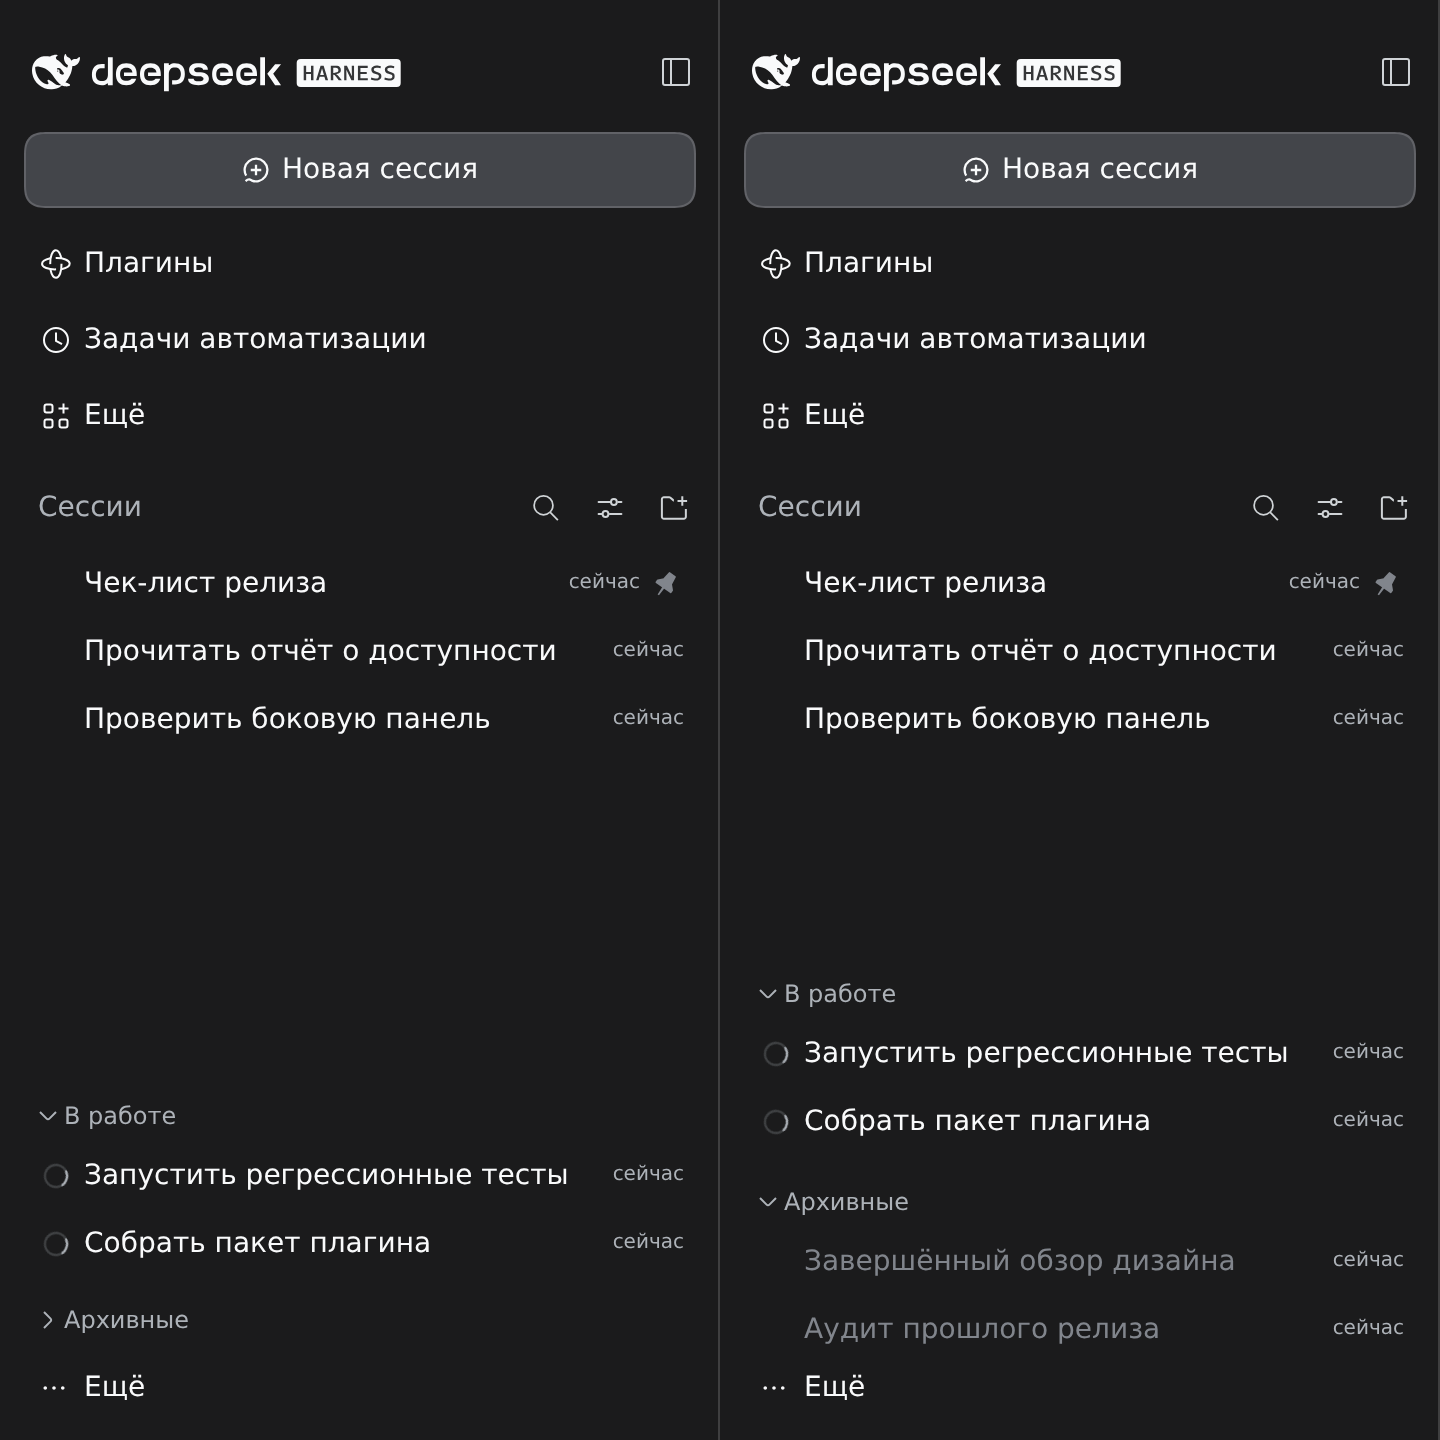
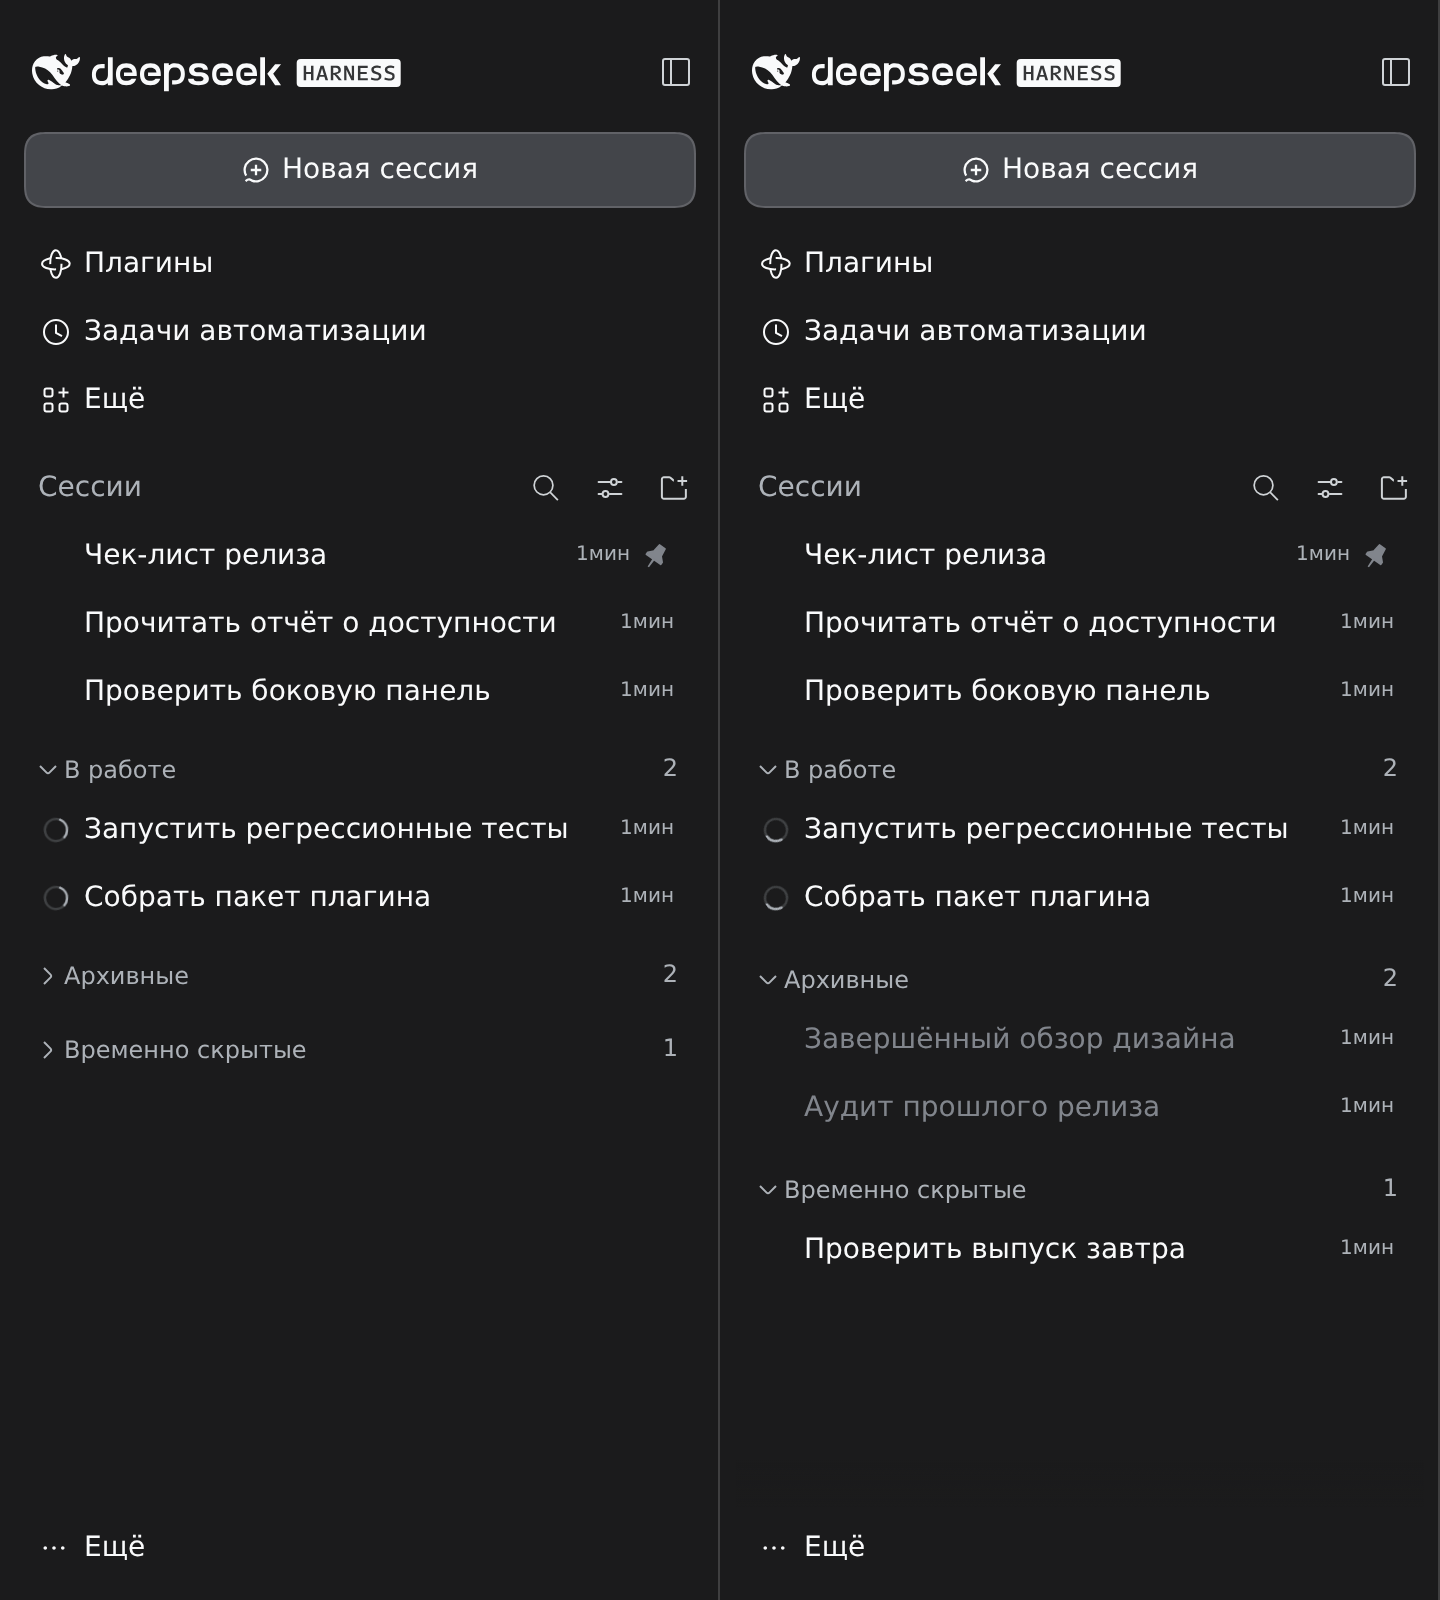
docs(sidebar-inbox): 미리보기에 잠시 숨김과 세션 수를 반영한다
Amp-Thread-ID: https://ampcode.com/threads/T-01a1e290-8a1c-71fe-abaf-7f7ffad8fb00

diff --git a/packages/ui-sidebar-inbox/README.ru.md b/packages/ui-sidebar-inbox/README.ru.md
@@ -8,13 +8,13 @@
 
 ## Предпросмотр
 
-**Светлая тема**: слева «Архивные» свёрнуты, справа развёрнуты.
+**Светлая тема**: слева «Архивные» и «Временно скрытые» свёрнуты, справа развёрнуты. Заголовки показывают количество сеансов.
 
-<img src="./assets/sidebar-preview-ru-light.webp" alt="Sidebar Inbox в светлой теме с русским интерфейсом: закреплённые сеансы и сеансы из входящих вверху, список «В работе» внизу; сравнение свёрнутых «Архивных» слева и развёрнутых справа" width="720" />
+<img src="./assets/sidebar-preview-ru-light.webp" alt="Sidebar Inbox в светлой теме: закреплённые и входящие сеансы, «В работе», «Архивные» и «Временно скрытые» с количеством; два последних раздела свёрнуты слева и развёрнуты справа" width="720" />
 
-**Тёмная тема**: те же примеры сеансов; сравнение свёрнутых и развёрнутых «Архивных».
+**Тёмная тема**: те же примеры сеансов; сравнение свёрнутых и развёрнутых «Архивных» и «Временно скрытых».
 
-<img src="./assets/sidebar-preview-ru-dark.webp" alt="Sidebar Inbox в тёмной теме с русским интерфейсом: закреплённые сеансы и сеансы из входящих вверху, список «В работе» внизу; сравнение свёрнутых «Архивных» слева и развёрнутых справа" width="720" />
+<img src="./assets/sidebar-preview-ru-dark.webp" alt="Sidebar Inbox в тёмной теме: закреплённые и входящие сеансы, «В работе», «Архивные» и «Временно скрытые» с количеством; два последних раздела свёрнуты слева и развёрнуты справа" width="720" />
 
 ## Использование
 

diff --git a/packages/ui-sidebar-inbox/README.es.md b/packages/ui-sidebar-inbox/README.es.md
@@ -8,13 +8,13 @@ Organiza la lista de sesiones de la barra lateral de DSH **por estado**, como T3
 
 ## Vista previa
 
-**Claro**: a la izquierda, Archivadas plegado; a la derecha, desplegado.
+**Claro**: Archivadas y Ocultas temporalmente están plegadas a la izquierda y desplegadas a la derecha. Los encabezados muestran el número de sesiones.
 
-<img src="./assets/sidebar-preview-es-light.webp" alt="Sidebar Inbox con el tema claro y la interfaz en español: sesiones fijadas y de la bandeja de entrada arriba y la lista En curso abajo, comparando Archivadas plegado a la izquierda y desplegado a la derecha" width="720" />
+<img src="./assets/sidebar-preview-es-light.webp" alt="Sidebar Inbox con tema claro: sesiones fijadas y de la bandeja de entrada, En curso, Archivadas y Ocultas temporalmente con recuentos; las dos últimas plegadas a la izquierda y desplegadas a la derecha" width="720" />
 
-**Oscuro**: las mismas sesiones de ejemplo, comparando Archivadas plegado y desplegado.
+**Oscuro**: las mismas sesiones de ejemplo, comparando Archivadas y Ocultas temporalmente plegadas y desplegadas.
 
-<img src="./assets/sidebar-preview-es-dark.webp" alt="Sidebar Inbox con el tema oscuro y la interfaz en español: sesiones fijadas y de la bandeja de entrada arriba y la lista En curso abajo, comparando Archivadas plegado a la izquierda y desplegado a la derecha" width="720" />
+<img src="./assets/sidebar-preview-es-dark.webp" alt="Sidebar Inbox con tema oscuro: sesiones fijadas y de la bandeja de entrada, En curso, Archivadas y Ocultas temporalmente con recuentos; las dos últimas plegadas a la izquierda y desplegadas a la derecha" width="720" />
 
 ## Uso
 

diff --git a/packages/ui-sidebar-inbox/README.fr.md b/packages/ui-sidebar-inbox/README.fr.md
@@ -8,13 +8,13 @@ Ce plugin organise la liste des sessions de la barre latérale de DSH **par éta
 
 ## Aperçu
 
-**Clair** : à gauche, Archivées replié ; à droite, déplié.
+**Clair** : Archivées et Masquées temporairement sont repliées à gauche et dépliées à droite. Les titres indiquent le nombre de sessions.
 
-<img src="./assets/sidebar-preview-fr-light.webp" alt="Sidebar Inbox avec le thème clair et l’interface en français : sessions épinglées et de la boîte de réception en haut, liste En cours en bas, comparaison d’Archivées replié à gauche et déplié à droite" width="720" />
+<img src="./assets/sidebar-preview-fr-light.webp" alt="Sidebar Inbox en thème clair : sessions épinglées et reçues, En cours, Archivées et Masquées temporairement avec compteurs ; les deux dernières repliées à gauche et dépliées à droite" width="720" />
 
-**Sombre** : les mêmes sessions d’exemple, comparant Archivées replié et déplié.
+**Sombre** : les mêmes sessions d’exemple, comparant Archivées et Masquées temporairement repliées et dépliées.
 
-<img src="./assets/sidebar-preview-fr-dark.webp" alt="Sidebar Inbox avec le thème sombre et l’interface en français : sessions épinglées et de la boîte de réception en haut, liste En cours en bas, comparaison d’Archivées replié à gauche et déplié à droite" width="720" />
+<img src="./assets/sidebar-preview-fr-dark.webp" alt="Sidebar Inbox en thème sombre : sessions épinglées et reçues, En cours, Archivées et Masquées temporairement avec compteurs ; les deux dernières repliées à gauche et dépliées à droite" width="720" />
 
 ## Utilisation
 

diff --git a/packages/ui-sidebar-inbox/README.pt.md b/packages/ui-sidebar-inbox/README.pt.md
@@ -8,13 +8,13 @@ Organiza a lista de sessões da barra lateral do DSH **por estado**, como o T3 C
 
 ## Pré-visualização
 
-**Claro**: à esquerda, Arquivadas recolhido; à direita, expandido.
+**Claro**: Arquivadas e Ocultadas temporariamente estão recolhidas à esquerda e expandidas à direita. Os títulos mostram a contagem de sessões.
 
-<img src="./assets/sidebar-preview-pt-light.webp" alt="Sidebar Inbox no tema claro com a interface em português: sessões fixadas e da caixa de entrada no topo e a lista Em andamento embaixo, comparando Arquivadas recolhido à esquerda e expandido à direita" width="720" />
+<img src="./assets/sidebar-preview-pt-light.webp" alt="Sidebar Inbox no tema claro: sessões fixadas e da caixa de entrada, Em andamento, Arquivadas e Ocultadas temporariamente com contagens; as duas últimas recolhidas à esquerda e expandidas à direita" width="720" />
 
-**Escuro**: as mesmas sessões de exemplo, comparando Arquivadas recolhido e expandido.
+**Escuro**: as mesmas sessões de exemplo, comparando Arquivadas e Ocultadas temporariamente recolhidas e expandidas.
 
-<img src="./assets/sidebar-preview-pt-dark.webp" alt="Sidebar Inbox no tema escuro com a interface em português: sessões fixadas e da caixa de entrada no topo e a lista Em andamento embaixo, comparando Arquivadas recolhido à esquerda e expandido à direita" width="720" />
+<img src="./assets/sidebar-preview-pt-dark.webp" alt="Sidebar Inbox no tema escuro: sessões fixadas e da caixa de entrada, Em andamento, Arquivadas e Ocultadas temporariamente com contagens; as duas últimas recolhidas à esquerda e expandidas à direita" width="720" />
 
 ## Uso
 

diff --git a/packages/ui-sidebar-inbox/README.de.md b/packages/ui-sidebar-inbox/README.de.md
@@ -8,13 +8,13 @@ Das Plugin ordnet die Sitzungsliste in der DSH-Seitenleiste **nach Status**, äh
 
 ## Vorschau
 
-**Hell**: Links ist Archiviert eingeklappt, rechts ausgeklappt.
+**Hell**: Links sind Archiviert und Vorübergehend ausgeblendet eingeklappt, rechts ausgeklappt. Die Überschriften zeigen die Sitzungsanzahl.
 
-<img src="./assets/sidebar-preview-de-light.webp" alt="Sidebar Inbox im hellen Design mit deutscher Oberfläche: angeheftete und Posteingangs-Sitzungen oben, die Liste In Arbeit unten, Vergleich von Archiviert eingeklappt links und ausgeklappt rechts" width="720" />
+<img src="./assets/sidebar-preview-de-light.webp" alt="Sidebar Inbox im hellen Design: angeheftete und Posteingangs-Sitzungen sowie In Arbeit, Archiviert und Vorübergehend ausgeblendet mit Anzahl; die letzten beiden links eingeklappt, rechts ausgeklappt" width="720" />
 
-**Dunkel**: Dieselben Beispielsitzungen im Vergleich von Archiviert eingeklappt und ausgeklappt.
+**Dunkel**: Dieselben Beispielsitzungen mit Archiviert und Vorübergehend ausgeblendet im eingeklappten und ausgeklappten Zustand.
 
-<img src="./assets/sidebar-preview-de-dark.webp" alt="Sidebar Inbox im dunklen Design mit deutscher Oberfläche: angeheftete und Posteingangs-Sitzungen oben, die Liste In Arbeit unten, Vergleich von Archiviert eingeklappt links und ausgeklappt rechts" width="720" />
+<img src="./assets/sidebar-preview-de-dark.webp" alt="Sidebar Inbox im dunklen Design: angeheftete und Posteingangs-Sitzungen sowie In Arbeit, Archiviert und Vorübergehend ausgeblendet mit Anzahl; die letzten beiden links eingeklappt, rechts ausgeklappt" width="720" />
 
 ## Verwendung
 

diff --git a/packages/ui-sidebar-inbox/README.en.md b/packages/ui-sidebar-inbox/README.en.md
@@ -8,13 +8,13 @@ Sidebar Inbox organizes the DSH sidebar session list **by state**, like T3 Code 
 
 ## Preview
 
-**Light**: Archived is collapsed on the left and expanded on the right.
+**Light**: Archived and Snoozed are collapsed on the left and expanded on the right. Section headings show session counts.
 
-<img src="./assets/sidebar-preview-en-light.webp" alt="Sidebar Inbox in the light theme: pinned and inbox sessions at the top and the Working list at the bottom, comparing Archived collapsed on the left and expanded on the right" width="720" />
+<img src="./assets/sidebar-preview-en-light.webp" alt="Sidebar Inbox in the light theme: pinned and inbox sessions, Working, Archived and Snoozed lists with counts; Archived and Snoozed collapsed on the left and expanded on the right" width="720" />
 
-**Dark**: The same sample sessions, comparing Archived collapsed and expanded.
+**Dark**: The same sample sessions, comparing Archived and Snoozed collapsed and expanded.
 
-<img src="./assets/sidebar-preview-en-dark.webp" alt="Sidebar Inbox in the dark theme: pinned and inbox sessions at the top and the Working list at the bottom, comparing Archived collapsed on the left and expanded on the right" width="720" />
+<img src="./assets/sidebar-preview-en-dark.webp" alt="Sidebar Inbox in the dark theme: pinned and inbox sessions, Working, Archived and Snoozed lists with counts; Archived and Snoozed collapsed on the left and expanded on the right" width="720" />
 
 ## Usage
 

diff --git a/packages/ui-sidebar-inbox/README.zh.md b/packages/ui-sidebar-inbox/README.zh.md
@@ -8,13 +8,13 @@
 
 ## 预览
 
-**浅色**：左侧为 Archived 折叠状态，右侧为展开状态。中文界面中分区标题以英语显示。
+**浅色**：左侧为已归档和已暂时隐藏折叠状态，右侧为两个分区展开状态。分区标题显示会话数量。
 
-<img src="./assets/sidebar-preview-zh-light.webp" alt="浅色主题、中文界面的 Sidebar Inbox：上方为置顶和收件箱会话，下方为 Working 列表，左右对比 Archived 折叠与展开" width="720" />
+<img src="./assets/sidebar-preview-zh-light.webp" alt="浅色主题、中文界面的 Sidebar Inbox：置顶和收件箱会话，以及进行中、已归档、已暂时隐藏列表和会话数量；左侧折叠已归档和已暂时隐藏，右侧展开" width="720" />
 
-**深色**：使用相同的示例会话，对比 Archived 的折叠与展开。
+**深色**：使用相同的示例会话，对比已归档和已暂时隐藏的折叠与展开。
 
-<img src="./assets/sidebar-preview-zh-dark.webp" alt="深色主题、中文界面的 Sidebar Inbox：上方为置顶和收件箱会话，下方为 Working 列表，左右对比 Archived 折叠与展开" width="720" />
+<img src="./assets/sidebar-preview-zh-dark.webp" alt="深色主题、中文界面的 Sidebar Inbox：置顶和收件箱会话，以及进行中、已归档、已暂时隐藏列表和会话数量；左侧折叠已归档和已暂时隐藏，右侧展开" width="720" />
 
 ## 使用方法
 
